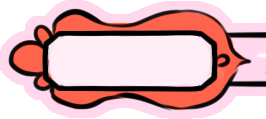
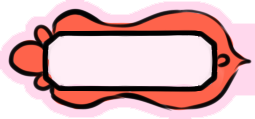
action bar is changed again

diff --git a/core/src/edu/cornell/gdiac/ailab/CharActionBar.java b/core/src/edu/cornell/gdiac/ailab/CharActionBar.java
@@ -13,18 +13,12 @@ public class CharActionBar {
 	public static String INTERRUPT_TEXT = "Interrupted";
 	
 	public static Texture actionBar_center;
-	public static Texture actionBar_right;
-	public static Texture actionBar_left;
 	public static Texture actionBar_leftRed;
 	public static Texture actionBar_leftBlue;
 	public static Texture actionBar_rightend;
-	public static Texture actionBar_fill;
-	
-	public static TextureRegion actionBar_fill_left;
-	public static TextureRegion actionBar_fill_right;
-	public static TextureRegion actionBar_fill_middleWait;
-	public static TextureRegion actionBar_fill_middleCast;
-	public static Texture actionBar_centerpotrait;
+	public static Texture actionBar_fillWait;
+	public static Texture actionBar_fillCast;
+	public static Texture actionBar_icon;
 	
 	public static Texture cancel_token;
 	
@@ -47,19 +41,19 @@ public class CharActionBar {
 	// height ratio bar container/bar fill
 	public static final float ACTIONBAR_HEIGHT_CONTAINER_FILL_RATIO = 1.8f;
 	
-	public static float CENTER_MULTIPLIER = 165f/76f;
+	public static float CENTER_MULTIPLIER = 2f;
 
 	/** time all characters have to wait before they enter their casting period **/
 	public static final float STARTING_BUFFER_TIME = 3f;
 	
 	public static final float CHAR_VELOCITY_SCREEN_RATIO = 0.0008f;
 	
-	public static final float MAX_BAR_SCREEN_RATIO = 0.9f;
+	public static final float MAX_BAR_SCREEN_RATIO = 0.8f;
 	
 	public static final float CAST_POINT_CENTERED = 0.5f;
 	
 	/** Ration of the bar height to the screen */
-	private static final float BAR_HEIGHT_RATIO = 0.032f;	
+	private static final float BAR_HEIGHT_RATIO = 0.035f;	
 	
 	/** the x position of the bar should start at the top 7/8 of the screen **/
 	private static final float BAR_RELATIVE_Y_POS = 1.0f;
@@ -69,7 +63,7 @@ public class CharActionBar {
 	private static final float Y_SPACING = 0.08f;
 	
 	// make this in terms of the max speed after applying speed modifier
-	public static float MAX_TIME = 24;
+	public static float MAX_TIME = 30;
 	
 	public static float HEALTH_TIME_PROPORTION = 1.0f;
 	
@@ -102,23 +96,13 @@ public class CharActionBar {
 		this.speedModifier = 0;
 		
 		actionBar_center = new Texture(Constants.ACTIONBAR_CENTER_TEXTURE);
-		actionBar_right = new Texture(Constants.ACTIONBAR_RIGHT_TEXTURE);
-		actionBar_left = new Texture(Constants.ACTIONBAR_LEFT_TEXTURE);
 		actionBar_leftRed = new Texture(Constants.ACTIONBAR_LEFTRED_TEXTURE);
 		actionBar_leftBlue = new Texture(Constants.ACTIONBAR_LEFTBLUE_TEXTURE);
 		actionBar_rightend = new Texture(Constants.ACTIONBAR_RIGHTEND_TEXTURE);
-		actionBar_centerpotrait = new Texture(Constants.ACTIONBAR_CENTER_POTRAIT);
+		actionBar_fillWait = new Texture(Constants.ACTIONBAR_FILLWAIT_TEXTURE);
+		actionBar_fillCast = new Texture(Constants.ACTIONBAR_FILLCAST_TEXTURE);
+		actionBar_icon = new Texture(Constants.ACTIONBAR_ICON);
 		
-		actionBar_fill = new Texture(Constants.ACTIONBAR_FILL_TEXTURE);
-		actionBar_fill_left = new TextureRegion(actionBar_fill,ACTIONBAR_FILL_X_OFFSET,ACTIONBAR_FILL_Y_OFFSET,ACTIONBAR_LEFT_FILL,ACTIONBAR_FILL_HEIGHT);	
-		int fill_midX = ACTIONBAR_LEFT_FILL;
-		actionBar_fill_middleWait = new TextureRegion(actionBar_fill,fill_midX,0,ACTIONBAR_MIDDLE_WAIT_WIDTH,actionBar_fill.getHeight());
-		
-		int fill_midCastX = ACTIONBAR_LEFT_FILL + ACTIONBAR_MIDDLE_WAIT_WIDTH;
-		actionBar_fill_middleCast = new TextureRegion(actionBar_fill,fill_midCastX,0,ACTIONBAR_MIDDLE_CAST_WIDTH,actionBar_fill.getHeight());
-		
-		int fill_rightX = fill_midX + ACTIONBAR_MIDDLE_WIDTH;
-		actionBar_fill_right = new TextureRegion(actionBar_fill,fill_rightX,ACTIONBAR_FILL_Y_OFFSET,ACTIONBAR_RIGHT_FILL,ACTIONBAR_FILL_HEIGHT);
 		
 		cancel_token = new Texture(Constants.CANCEL_TOKEN);
 	}
@@ -439,135 +423,70 @@ public class CharActionBar {
 			float leftEndHeight = this.getBarHeight(canvas)*CharActionBar.CENTER_MULTIPLIER;
 			
 			float leftEndX = xPosBar - 0.9f*leftEndWidth;
-			float leftEndY = yPosBar - 0.22f*leftEndHeight;
+			float leftEndY = yPosBar - leftEndHeight/4;
 			
 			// make this endpoint part of the curvature of the end filling
 			canvas.drawTexture(actionBar_leftBlue,leftEndX,leftEndY,leftEndWidth,leftEndHeight,barColor);
 		}
 		else {
 			// draw end point left
-			float leftEndWidth = 0.7f*(CharActionBar.actionBar_leftRed.getWidth()* this.getBarHeight(canvas)*CharActionBar.CENTER_MULTIPLIER)/ CharActionBar.actionBar_leftRed.getHeight();
-			float leftEndHeight = 0.7f*this.getBarHeight(canvas)*CharActionBar.CENTER_MULTIPLIER;
+			float leftEndWidth = (CharActionBar.actionBar_leftRed.getWidth()* this.getBarHeight(canvas)*CharActionBar.CENTER_MULTIPLIER)/ CharActionBar.actionBar_leftRed.getHeight();
+			float leftEndHeight = 0.85f*this.getBarHeight(canvas)*CharActionBar.CENTER_MULTIPLIER;
 			
 			float leftEndX = xPosBar - 0.9f*leftEndWidth;
-			float leftEndY = yPosBar - leftEndHeight/6;
+			float leftEndY = yPosBar - leftEndHeight/5;
 			
 			// make this endpoint part of the curvature of the end filling
 			canvas.drawTexture(actionBar_leftRed,leftEndX,leftEndY,leftEndWidth,leftEndHeight,barColor);
 		}
 	}
 	
-	public void drawLeftBar(GameCanvas canvas,float xPosBar,float yPosBar, Color barColor){
-		float leftsideWidth = this.getWaitWidth(canvas);
+	public void drawBar(GameCanvas canvas,float xPosBar,float yPosBar, Color barColor){
+		float barWidth = this.getWidth(canvas);
 		
-		float leftsideHeight = this.getBarHeight(canvas);
+		float barHeight = this.getBarHeight(canvas);
 		
-		canvas.drawTexture(CharActionBar.actionBar_left,xPosBar,yPosBar,leftsideWidth,leftsideHeight,barColor);
-	}
-	
-	public void drawRightBar(GameCanvas canvas, float xPosBar,float yPosBar, Color barColor){
-		float rightsideWidth = this.getCastWidth(canvas);
-		// literally no idea why its x 10
-		float rightsideHeight = this.getBarHeight(canvas);
-		
-		float leftsideWidth = this.getWaitWidth(canvas);
-		float rightside_x = xPosBar + leftsideWidth;
-		float rightside_y = yPosBar;
-		
-		canvas.drawTexture(CharActionBar.actionBar_right,rightside_x,rightside_y,rightsideWidth,rightsideHeight,barColor);
-	}
-	
-	public void drawCenterRing(GameCanvas canvas,float xPosBar,float yPosBar, Color barColor){
-		float centerRingWidth = (CharActionBar.actionBar_center.getWidth()* this.getBarHeight(canvas)*CharActionBar.CENTER_MULTIPLIER)/ CharActionBar.actionBar_center.getHeight();
-		float centerRingHeight = this.getBarHeight(canvas)*CharActionBar.CENTER_MULTIPLIER;
-		
-		float centerX = this.getCastPointX(canvas) - centerRingWidth/2;
-		float centerY = yPosBar - centerRingHeight/3.7f;
-		
-		canvas.drawTexture(CharActionBar.actionBar_center, centerX, centerY,centerRingWidth,centerRingHeight,barColor);
+		canvas.drawTexture(CharActionBar.actionBar_center,xPosBar,yPosBar,barWidth,barHeight,barColor);
 	}
 	
 	public void drawRightEndpoint(GameCanvas canvas,float xPosBar,float yPosBar,Color barColor){
-		float rightEndWidth = (CharActionBar.actionBar_center.getWidth()* this.getBarHeight(canvas)/ CharActionBar.actionBar_center.getHeight());
+		float rightEndWidth = CharActionBar.actionBar_rightend.getWidth() * this.getBarHeight(canvas)/CharActionBar.actionBar_rightend.getHeight();
 		float rightEndHeight = this.getBarHeight(canvas);
 		
-		float rightEndX = xPosBar + this.getWidth(canvas) - rightEndWidth/1.25f;
-		float rightEndY = yPosBar;
+		float rightEndX = xPosBar + this.getWidth(canvas);
+		float rightEndY = yPosBar - rightEndHeight*0.018f;
 		
 		canvas.drawTexture(actionBar_rightend, rightEndX, rightEndY, rightEndWidth, rightEndHeight, barColor);
 	}
 	
-	public void drawFill(GameCanvas canvas,float castPosition,float xPosBar, float yPosBar, Color barColor){
-		float leftsideHeight = this.getBarHeight(canvas);
-		float rightsideHeight = this.getBarHeight(canvas);
-		float centerRingWidth = (CharActionBar.actionBar_center.getWidth()* this.getBarHeight(canvas)*CharActionBar.CENTER_MULTIPLIER)/ CharActionBar.actionBar_center.getHeight();
-		float centerRingHeight = this.getBarHeight(canvas)*CharActionBar.CENTER_MULTIPLIER;
-		// draw the fill based on a percentage
-		// constant amount of pixels for center
-			float left_proportion = ((float) (this.getWaitWidth(canvas) - centerRingWidth/2)/(this.getWaitWidth(canvas)));
-			float wait_proportion = castPosition/this.getCastPoint();
-			// entered the middle portion
-			float waitFillPercent;
-			float waitFillPercentMiddle;
-			if (wait_proportion > left_proportion){
-				waitFillPercent = 1;
-				
-				//TODO fixup this hack
-				float proportionLeft = Math.min(wait_proportion - left_proportion,1-left_proportion+0.2f);
-				waitFillPercentMiddle = proportionLeft/(1-left_proportion);
-			}
-			// just the left portion
-			else {
-				waitFillPercent = wait_proportion/left_proportion;
-				waitFillPercentMiddle = 0;
-			}
-
-			int leftWidth = (int)(waitFillPercent * left_proportion * this.getWaitWidth(canvas));
-			float leftHeight = (leftsideHeight/(ACTIONBAR_HEIGHT_CONTAINER_FILL_RATIO-0.25f));
-			
-			float leftFillY = (yPosBar + ((leftsideHeight- leftHeight))/1.48f);
-			// draw the wait fill
-			canvas.draw(actionBar_fill_left,barColor,xPosBar,leftFillY,leftWidth,leftHeight);
-	
-			// draw middle fill
-			// create the middle waiting period on the fly
-			float centerX = this.getCastPointX(canvas) - centerRingWidth/2;
-			float centerY = yPosBar - centerRingHeight/3.7f;
-			
-			int middleWidth = (int)(waitFillPercentMiddle * actionBar_fill_middleWait.getRegionWidth());
-			TextureRegion curMiddleWait = new TextureRegion(actionBar_fill_middleWait,0,0,middleWidth,actionBar_fill_middleWait.getRegionHeight());
-			
-			float middleFillWidth = (int)(waitFillPercentMiddle* (1-left_proportion)*this.getWaitWidth(canvas));
-			float middleHeightFill =centerRingHeight/(ACTIONBAR_HEIGHT_CONTAINER_FILL_RATIO-0.55f);
-			
-			float middleWaitX = xPosBar + leftWidth;
-			float middleFillY = centerY + (centerRingHeight -middleHeightFill)/2;
-			
-			canvas.draw(curMiddleWait,barColor,middleWaitX,middleFillY,middleFillWidth,middleHeightFill);
-			
-			if (castPosition >= this.getCastPoint()){
-				float rightFillX = middleWaitX + centerRingWidth/2;			
-				float cast_width_fill_prop = (castPosition - this.getCastPoint())/(1-this.getCastPoint());
-					
-				float rightFillY = (yPosBar + ((leftsideHeight- leftHeight))/1.48f);
-					
-				float cast_width_fill = cast_width_fill_prop * (this.getCastWidth(canvas));
-				float cast_height_fill = (rightsideHeight/(ACTIONBAR_HEIGHT_CONTAINER_FILL_RATIO-0.25f));
-					
-				// draw the wait fill
-				canvas.draw(actionBar_fill_right,barColor,rightFillX,rightFillY,cast_width_fill,cast_height_fill);
-			}
+	public void drawWaitFill(GameCanvas canvas,float xPosBar,int count,Color barColor){
+		float xPos = xPosBar;
+		float yPos = this.getFillY(canvas, count);
+		
+		float waitWidth = this.getWaitWidth(canvas);
+		float waitHeight = this.getBarFillHeight(canvas);
+		canvas.drawTexture(CharActionBar.actionBar_fillWait, xPos, yPos, waitWidth, waitHeight, barColor);
 	}
 	
-	public void drawCenterPotrait(GameCanvas canvas,float xPosBar,float yPosBar,Color barColor){
-		// draw center potrait 
-		float potraitWidth = (1.07f*CharActionBar.actionBar_center.getWidth()* this.getBarHeight(canvas))/ CharActionBar.actionBar_center.getHeight();
-		float potraitHeight = this.getBarHeight(canvas)*CENTER_MULTIPLIER*0.72f;
+	public void drawCastFill(GameCanvas canvas,float xPosBar,int count,Color barColor,float castPosition){
+		float xPos = xPosBar + this.getWaitWidth(canvas);
+		float yPos = this.getFillY(canvas, count);
 		
-		float potraitX = xPosBar + this.getWaitWidth(canvas) - potraitWidth/2.15f;
-		float potraitY = yPosBar - potraitHeight/5;
+		float castWidth = this.getWidth(canvas)*castPosition - this.getWaitWidth(canvas);
+		float castHeight = this.getBarFillHeight(canvas);
+		if (castPosition > this.getCastPoint()){
+			canvas.drawTexture(CharActionBar.actionBar_fillCast, xPos, yPos, castWidth, castHeight, barColor);
+		}
+	}
+	
+	public void drawCenterIcon(GameCanvas canvas,float xPosBar,float yPosBar,Color barColor){
+		float iconHeight = this.getBarHeight(canvas) * CharActionBar.CENTER_MULTIPLIER;
+		float iconWidth = actionBar_icon.getWidth() * (this.getBarHeight(canvas)*CharActionBar.CENTER_MULTIPLIER)/actionBar_icon.getHeight();
 		
-		canvas.drawTexture(actionBar_centerpotrait,potraitX,potraitY,potraitWidth,potraitHeight,barColor);
+		float iconX = xPosBar + this.getWaitWidth(canvas) - iconWidth/4;
+		float iconY = yPosBar - iconHeight/4;
+		
+		canvas.drawTexture(actionBar_icon,iconX, iconY, iconWidth, iconHeight, barColor);
 	}
 	
 	public int drawSlots(GameCanvas canvas,int curSlot,
@@ -733,18 +652,22 @@ public class CharActionBar {
 		float yPosBar = getY(canvas,count);
 			
 		this.drawLeftEndpoint(canvas, xPosBar, yPosBar, leftside, barColor);
-		this.drawLeftBar(canvas, xPosBar, yPosBar, barColor);
-		this.drawRightBar(canvas, xPosBar, yPosBar, barColor);
-		this.drawCenterRing(canvas, xPosBar, yPosBar, barColor);
+		this.drawBar(canvas, xPosBar, yPosBar, barColor);
 		this.drawRightEndpoint(canvas, xPosBar, yPosBar, barColor);
+		
+		//draw fill
+		this.drawWaitFill(canvas,xPosBar,count,barColor);
+		this.drawCastFill(canvas, xPosBar, count, barColor,castPosition);
 		
 		// draw action queuing
 		this.drawSlots(canvas, castActions,queuedActions,
 				selectingActions,curSelectedAction,count, barColor,isSelecting,true,lerpVal);
 		
-		// fill will have to be drawn ontop with a bit of transparency
-		this.drawFill(canvas, castPosition, xPosBar, yPosBar, barColor.mul(1,1,1,0.85f));
-		this.drawCenterPotrait(canvas, xPosBar, yPosBar, barColor);
+		// draw the fill on the cast bar
+		this.drawCastFill(canvas, xPosBar, count, barColor,castPosition);
+		
+		// draw icon
+		this.drawCenterIcon(canvas, xPosBar,yPosBar,barColor);
 		
 		this.drawSlots(canvas, castActions,queuedActions,
 				selectingActions,curSelectedAction,count, barColor,isSelecting,false,lerpVal);

diff --git a/core/src/edu/cornell/gdiac/ailab/GameEngine.java b/core/src/edu/cornell/gdiac/ailab/GameEngine.java
@@ -610,14 +610,11 @@ public class GameEngine implements Screen {
 		manager.load(Constants.ACTIONBAR_CENTER_TEXTURE,Texture.class);
 		assets.add(Constants.ACTIONBAR_CENTER_TEXTURE);
 		
-		manager.load(Constants.ACTIONBAR_FILL_TEXTURE,Texture.class);
-		assets.add(Constants.ACTIONBAR_FILL_TEXTURE);
+		manager.load(Constants.ACTIONBAR_FILLWAIT_TEXTURE,Texture.class);
+		assets.add(Constants.ACTIONBAR_FILLWAIT_TEXTURE);
 		
-		manager.load(Constants.ACTIONBAR_LEFT_TEXTURE,Texture.class);
-		assets.add(Constants.ACTIONBAR_LEFT_TEXTURE);
-		
-		manager.load(Constants.ACTIONBAR_RIGHT_TEXTURE,Texture.class);
-		assets.add(Constants.ACTIONBAR_LEFT_TEXTURE);
+		manager.load(Constants.ACTIONBAR_FILLCAST_TEXTURE,Texture.class);
+		assets.add(Constants.ACTIONBAR_FILLCAST_TEXTURE);
 		
 		manager.load(Constants.ACTIONBAR_LEFTBLUE_TEXTURE,Texture.class);
 		assets.add(Constants.ACTIONBAR_LEFTBLUE_TEXTURE);
@@ -628,8 +625,8 @@ public class GameEngine implements Screen {
 		manager.load(Constants.ACTIONBAR_RIGHTEND_TEXTURE,Texture.class);
 		assets.add(Constants.ACTIONBAR_RIGHTEND_TEXTURE);
 		
-		manager.load(Constants.ACTIONBAR_CENTER_POTRAIT, Texture.class);
-		assets.add(Constants.ACTIONBAR_CENTER_POTRAIT);
+		manager.load(Constants.ACTIONBAR_ICON, Texture.class);
+		assets.add(Constants.ACTIONBAR_ICON);
 		
 		manager.load(Constants.DESCRIPTION_BOX_TEXTURE, Texture.class);
 		assets.add(Constants.DESCRIPTION_BOX_TEXTURE);

diff --git a/core/src/edu/cornell/gdiac/ailab/Constants.java b/core/src/edu/cornell/gdiac/ailab/Constants.java
@@ -59,20 +59,18 @@ public class Constants {
 	/** ACTION BAR ART ASSETS **/
 	public static final String ACTIONBAR_CENTER_TEXTURE = "images/actionBar/actionBar_center.png";
 	
-	public static final String ACTIONBAR_FILL_TEXTURE = "images/actionBar/actionBar_fill.png";
+	public static final String ACTIONBAR_FILLWAIT_TEXTURE = "images/actionBar/actionBar_fillWait.png";
+	
+	public static final String ACTIONBAR_FILLCAST_TEXTURE = "images/actionBar/actionBar_fillCast.png";
 	
 	public static final String ACTIONBAR_LEFTBLUE_TEXTURE = "images/actionBar/actionBar_leftBlue.png";
 	
 	public static final String ACTIONBAR_LEFTRED_TEXTURE = "images/actionBar/actionBar_leftRed.png";
 	
-	public static final String ACTIONBAR_LEFT_TEXTURE = "images/actionBar/actionBar_leftside.png";
-
-	public static final String ACTIONBAR_RIGHT_TEXTURE = "images/actionBar/actionBar_rightside.png";
-	
 	public static final String ACTIONBAR_RIGHTEND_TEXTURE = "images/actionBar/actionBar_rightend.png";
-	
-	public static final String ACTIONBAR_CENTER_POTRAIT = "images/actionBar/actionBar_potraitCircle.png";
 
+	public static final String ACTIONBAR_ICON = "images/actionBar/actionBar_centerIcon.png";
+	
 	public static final Color CAST_COLOR = Color.valueOf("ffe04e");
 	
 	// DESCRIPTION BOX CONSTANTS

diff --git a/core/src/edu/cornell/gdiac/ailab/Character.java b/core/src/edu/cornell/gdiac/ailab/Character.java
@@ -1054,7 +1054,7 @@ public class Character implements GUIElement {
 			chosenColor = chosenColor.lerp(this.color.cpy(), lerpVal);
 		}
 		else if (shouldDim){
-			chosenColor = Color.LIGHT_GRAY.cpy().mul(1,1,1,0.8f);
+			chosenColor = Color.LIGHT_GRAY.cpy().mul(1,1,1,0.9f);
 		}
 		else if (charState == CharacterState.CAST || charState == CharacterState.EXECUTE){
 			chosenColor = Color.GOLD.cpy();
@@ -1092,14 +1092,13 @@ public class Character implements GUIElement {
 	
 	// TODO commented out
 	public void drawToken(GameCanvas canvas, int count,boolean shouldDim){
-		float tokenX = this.actionBar.getX(canvas) + this.actionBar.getWaitWidth(canvas) - this.icon.getWidth()/2;
+		float tokenX = this.actionBar.getX(canvas) + this.actionBar.getWidth(canvas)*this.castPosition - this.icon.getWidth()/2;
 		
 		// 2 is a random offset to center it
-		float tokenY = this.actionBar.getY(canvas, count);
+		float tokenY = this.actionBar.getY(canvas, count) - 2;
 		
 		Color c = getColor(shouldDim);
 		canvas.drawTexture(icon, tokenX, tokenY,icon.getWidth(),icon.getHeight(),c);
-		
 	}
 
 	public boolean getHovering(){
